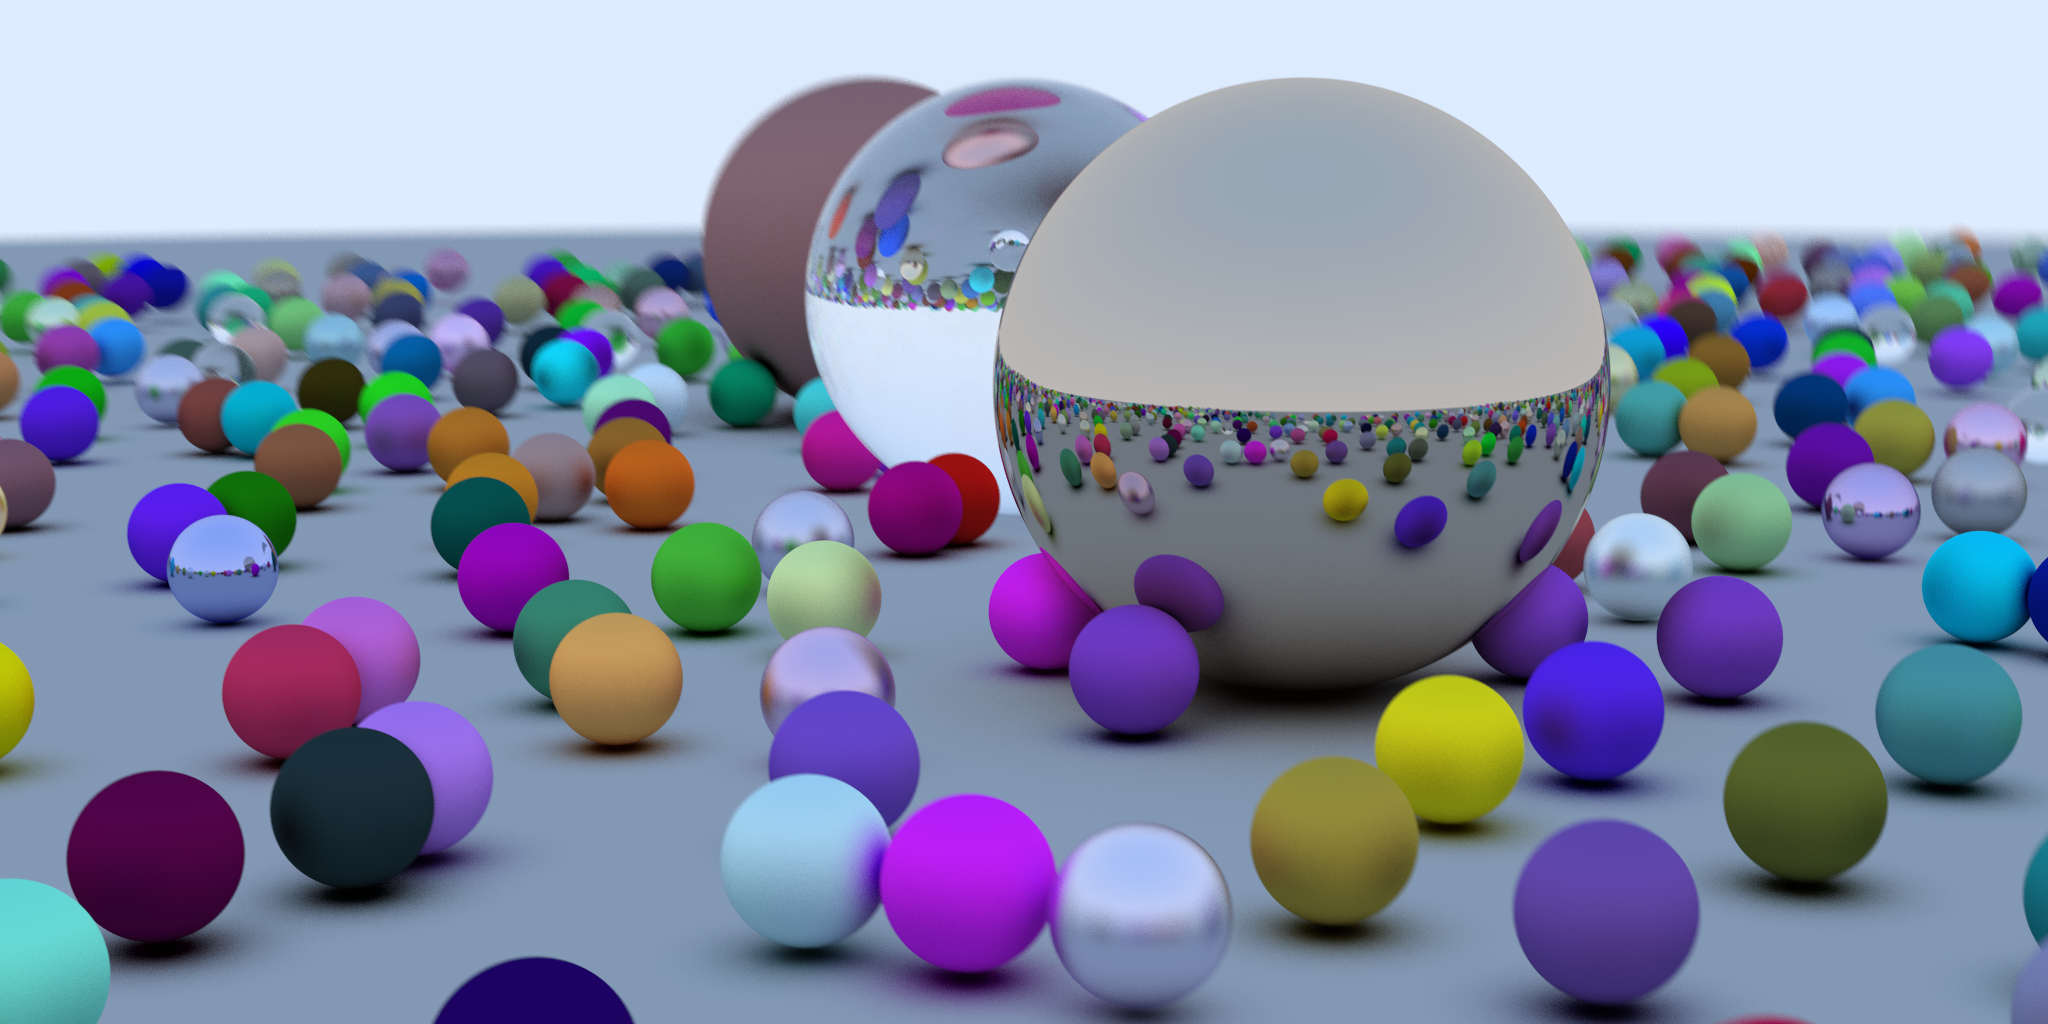
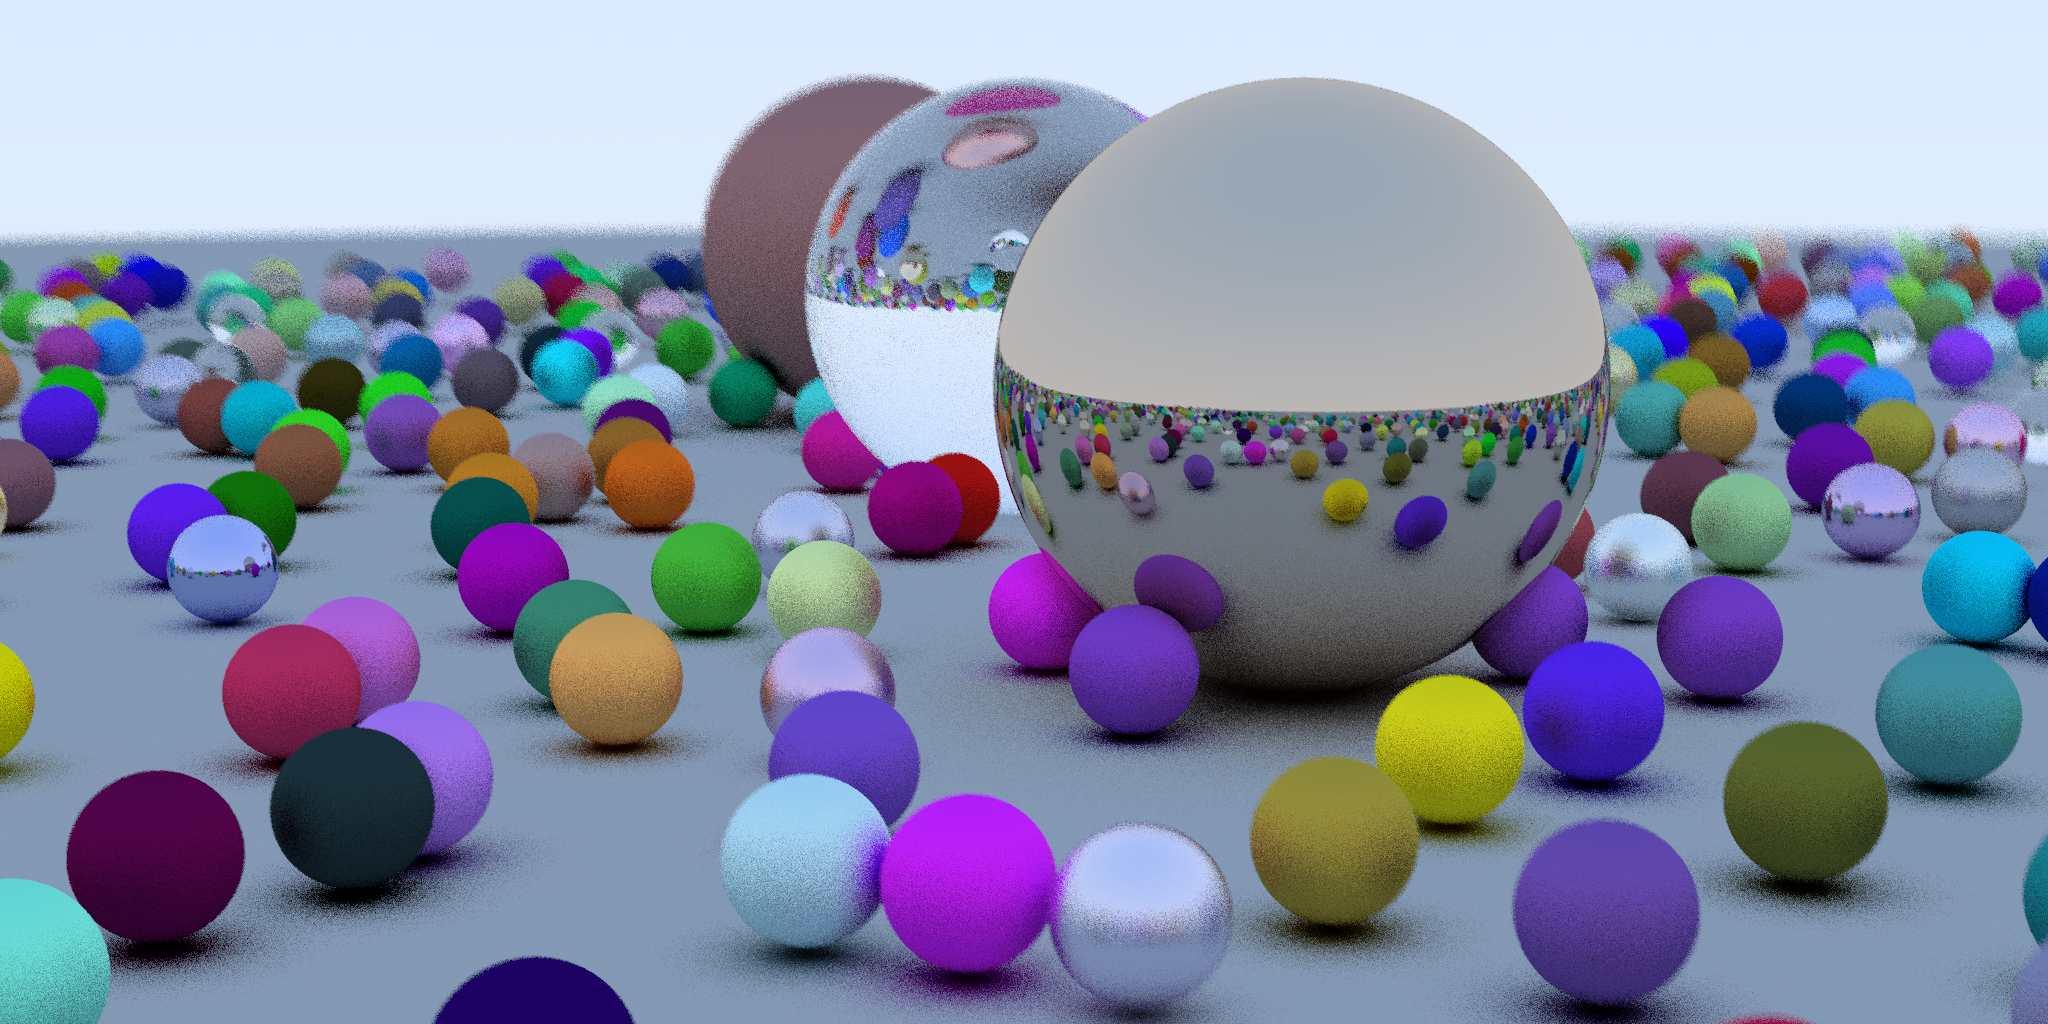
update tests

diff --git a/main_lockless_queue.py b/main_lockless_queue.py
@@ -2,7 +2,6 @@ import numpy as np
 import taichi as ti
 from vector import *
 import ray
-from queue import Queue
 from time import time
 from hittable import World, Sphere
 from camera import Camera
@@ -14,6 +13,40 @@ import random
 # switch to cpu if needed
 ti.init(arch=ti.gpu)
 
+@ti.data_oriented
+class Queue:
+    def __init__(self, struct, size) -> None:
+        self.struct_field = struct.field(shape=(size))
+        self.read_idx = ti.field(dtype=ti.i32, shape=())
+        self.write_idx = ti.field(dtype=ti.i32, shape=())
+        self.size = size
+        
+    @ti.func
+    def push(self, struct : ti.template()):
+        idx = ti.atomic_add(self.write_idx[()], 1)
+        while True:
+            queue_read_idx = ti.atomic_add(self.read_idx[()], 0)
+            if idx - queue_read_idx <= self.size:
+                break
+        self.struct_field[idx % self.size] = struct
+        return idx
+
+    @ti.func
+    def pop(self):
+        idx = ti.atomic_add(self.read_idx[()], 1)
+        return idx
+
+    @ti.func
+    def get(self, idx : ti.i32) -> ti.template():
+        return self.struct_field[idx % self.size]
+
+    @ti.func
+    def get_read_idx(self) -> ti.i32:
+        return ti.atomic_add(self.read_idx[()], 0)
+
+    @ti.func
+    def get_write_idx(self) -> ti.i32:
+        return ti.atomic_add(self.write_idx[()], 0)
 
 @ti.func
 def get_background(dir):
@@ -35,7 +68,7 @@ if __name__ == '__main__':
     rays = ray.Rays(image_width, image_height)
     pixels = ti.Vector.field(3, dtype=float)
     sample_count = ti.field(dtype=ti.i32)
-    ti.root.bitmasked(ti.ij, (image_width, image_height)).place(sample_count)
+    ti.root.dense(ti.ij, (image_width, image_height)).place(sample_count)
     ti.root.dense(ti.ij, (image_width, image_height)).place(pixels)
 
     # materials
@@ -89,20 +122,33 @@ if __name__ == '__main__':
     start_attenuation = Vector(1.0, 1.0, 1.0)
     initial = True
 
-    num_completed = 0
+    num_completed = ti.field(dtype=ti.i32, shape=())
     num_pixels = image_width * image_height
+
+    ray_sample = ti.types.struct(
+        org = ti.types.vector(3, ti.f32),
+        dir = ti.types.vector(3, ti.f32),
+        pdf = ti.types.vector(3, ti.f32),
+        depth = ti.i32,
+        x = ti.i32,
+        y = ti.i32
+    )
+
+    ray_queue = Queue(ray_sample, image_width * image_height * 2)
 
     @ti.kernel
     def wavefront_initial() -> ti.i32:
         for x, y in pixels:
             # gen sample
-            depth = max_depth
+            d = max_depth
             pdf = start_attenuation
 
             u = (x + ti.random()) / (image_width - 1)
             v = (y + ti.random()) / (image_height - 1)
             ray_org, ray_dir = cam.get_ray(u, v)
-            rays.set(x, y, ray_org, ray_dir, depth, pdf)
+            # rays.set(x, y, ray_org, ray_dir, depth, pdf)
+            next_ray = ray_sample(org = ray_org, dir = ray_dir, depth = d, x = x, y = y, pdf = pdf)
+            ray_queue.push(next_ray)
             sample_count[x, y] = 0
 
     @ti.kernel
@@ -114,34 +160,49 @@ if __name__ == '__main__':
                 if miss or last bounce sample backgound
             return pixels that hit max samples
         '''
-        for x, y in pixels:
-            samples = 0
-            while samples < samples_per_pixel:
+        for i in range(1024 * 24):
+            while True:
+                queue_idx = ray_queue.pop()
+                while True:
+                    queue_write_idx = ray_queue.get_write_idx()
+                    if queue_idx < queue_write_idx or num_completed[()] >= num_pixels:
+                        break
+                ray = ray_queue.get(queue_idx)
+                
+                if num_completed[()] >= num_pixels:
+                    break
+
                 # gen sample
-                ray_org, ray_dir, depth, pdf = rays.get(x, y)
+                ray_org, ray_dir, depth, pdf, x, y = ray.org, ray.dir, ray.depth, ray.pdf, ray.x, ray.y
 
                 # intersect
                 hit, p, n, front_facing, index = world.hit_all(
                     ray_org, ray_dir)
                 depth -= 1
-                rays.depth[x, y] = depth
+                # rays.depth[x, y] = depth
                 if hit:
                     reflected, out_origin, out_direction, attenuation = world.materials.scatter(
                         index, ray_dir, p, n, front_facing)
-                    rays.set(x, y, out_origin, out_direction, depth,
-                             pdf * attenuation)
+                    #rays.set(x, y, out_origin, out_direction, depth,
+                    #         pdf * attenuation)
+                    next_ray = ray_sample(org = out_origin, dir = out_direction, depth = depth, x = x, y = y, pdf = pdf * attenuation)
+                    ray_queue.push(next_ray)
                     ray_dir = out_direction
 
                 if not hit or depth == 0:
-                    samples += 1
                     pixels[x, y] += pdf * get_background(ray_dir)
-                    u = (x + ti.random()) / (image_width - 1)
-                    v = (y + ti.random()) / (image_height - 1)
-                    depth = max_depth
-                    pdf = start_attenuation
-                    ray_org, ray_dir = cam.get_ray(u, v)
-                    rays.set(x, y, ray_org, ray_dir, depth, pdf)
-            pixels[x, y] = ti.sqrt(pixels[x, y] / samples)
+                    if ti.atomic_add(sample_count[x, y], 1) >= samples_per_pixel - 1:
+                        pixels[x, y] = ti.sqrt(pixels[x, y] / samples_per_pixel)
+                        num_completed[()] += 1
+                    else:
+                        u = (x + ti.random()) / (image_width - 1)
+                        v = (y + ti.random()) / (image_height - 1)
+                        depth = max_depth
+                        pdf = start_attenuation
+                        ray_org, ray_dir = cam.get_ray(u, v)
+                        # rays.set(x, y, ray_org, ray_dir, depth, pdf)
+                        next_ray = ray_sample(org = ray_org, dir = ray_dir, depth = depth, x = x, y = y, pdf = pdf)
+                        ray_queue.push(next_ray)
 
     num_pixels = image_width * image_height
 
@@ -151,4 +212,4 @@ if __name__ == '__main__':
     wavefront_queue()
     ti.sync()
     print(time() - t)
-    ti.imwrite(pixels.to_numpy(), 'out_mega.png')
+    ti.imwrite(pixels.to_numpy(), 'out_lockless_q.png')

diff --git a/main.py b/main.py
@@ -29,7 +29,7 @@ if __name__ == '__main__':
     # image data
     aspect_ratio = 4.0 / 2.0
     image_width = 2048
-    samples_per_pixel = 256
+    samples_per_pixel = 8
     max_depth = 16
     image_height = int(image_width / aspect_ratio)
     rays = ray.Rays(image_width, image_height)
@@ -187,5 +187,6 @@ if __name__ == '__main__':
         num_to_do = fill_inner_queue()
         # fix_inner_queue()
     finish()
+    ti.sync()
     print(time() - t)
     ti.imwrite(pixels.to_numpy(), 'out_no_queue.png')

diff --git a/main_bitmasked.py b/main_bitmasked.py
@@ -29,7 +29,7 @@ if __name__ == '__main__':
     # image data
     aspect_ratio = 4.0 / 2.0
     image_width = 2048
-    samples_per_pixel = 256
+    samples_per_pixel = 8
     max_depth = 16
     image_height = int(image_width / aspect_ratio)
     rays = ray.Rays(image_width, image_height)
@@ -163,5 +163,6 @@ if __name__ == '__main__':
         # print(num_to_do)
         num_to_do = wavefront_queue()
     finish()
+    ti.sync()
     print(time() - t)
     ti.imwrite(pixels.to_numpy(), 'out_bitmasked.png')
